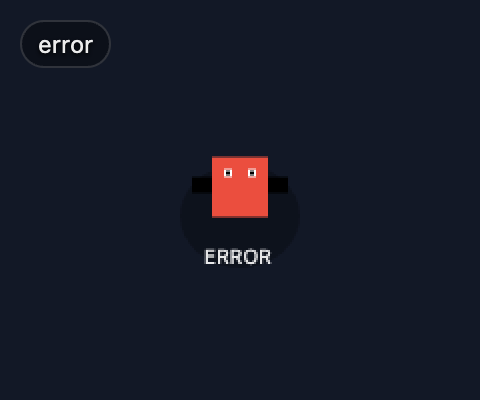
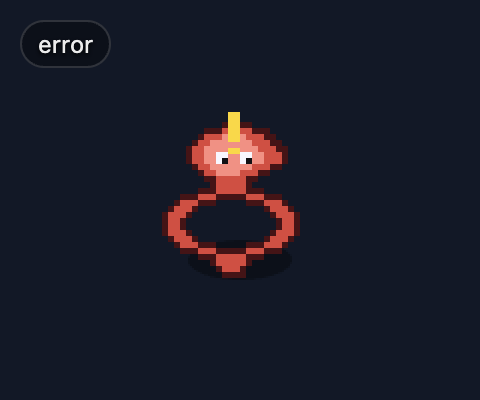
Mascot: replace placeholder drawing with real 32x32 pixel lobster sprites

Changed region(s): [[0.3125, 0.27, 0.625, 0.72]]

diff --git a/apps/molt-mascot/src/sprites.js b/apps/molt-mascot/src/sprites.js
@@ -1,0 +1,200 @@
+// Pixel art sprites for molt-mascot (32x32).
+// Legend: . transparent
+// k outline (dark)
+// r body red
+// h highlight
+// w white (eyes)
+// b black (pupil)
+// s shadow
+
+export const palette = {
+  '.': null,
+  k: '#4a0f14',
+  r: '#e0433a',
+  h: '#ff8b7f',
+  w: '#f8f7ff',
+  b: '#101014',
+  s: 'rgba(0,0,0,0.35)',
+  g: '#34c759',
+  u: '#0a84ff',
+  y: '#ffd60a',
+};
+
+// Base lobster. Designed for a 32x32 canvas; scale it up with nearest-neighbor.
+// Two idle frames (claws slightly open/closed).
+export const lobsterIdle = [
+  [
+    '................................',
+    '................................',
+    '................................',
+    '.............kkkkk..............',
+    '..........kkkrrrrrkkk...........',
+    '.........krrrhhhhrrrkk..........',
+    '........krrhhhhhhhrrrkk.........',
+    '.......krrhhhhhhhhhrrrkk........',
+    '.......krrhhwwhhwwhhrrrk........',
+    '.......krrhhwbhhwbhhrrrk........',
+    '........krrhhhhhhhrrrkk.........',
+    '.........krrhhhhrrrkk...........',
+    '..........kkrrrrrkk.............',
+    '...........krrrrrk..............',
+    '.........kkkrrrrrkkk............',
+    '......kkkrrrkkkkkrrrkkk.........',
+    '.....krrrkkk.....kkkrrrk........',
+    '....krrrk...........krrrk.......',
+    '...krrrk.............krrrk......',
+    '...krrk...............krrk......',
+    '...krrk...............krrk......',
+    '...krrrk.............krrrk......',
+    '....krrrk...........krrrk.......',
+    '.....krrrkkk.....kkkrrrk........',
+    '......kkkrrrkkkkkrrrkkk.........',
+    '.........kkkrrrrrkkk............',
+    '...........krrrrrk..............',
+    '............krrrk...............',
+    '.............kkkk...............',
+    '................................',
+    '................................',
+    '................................',
+  ],
+  [
+    '................................',
+    '................................',
+    '................................',
+    '.............kkkkk..............',
+    '..........kkkrrrrrkkk...........',
+    '.........krrrhhhhrrrkk..........',
+    '........krrhhhhhhhrrrkk.........',
+    '.......krrhhhhhhhhhrrrkk........',
+    '.......krrhhwwhhwwhhrrrk........',
+    '.......krrhhwbhhwbhhrrrk........',
+    '........krrhhhhhhhrrrkk.........',
+    '.........krrhhhhrrrkk...........',
+    '..........kkrrrrrkk.............',
+    '...........krrrrrk..............',
+    '.........kkkrrrrrkkk............',
+    '......kkkrrrkkkkkrrrkkk.........',
+    '.....krrrkkk.....kkkrrrk........',
+    '....krrrk...........krrrk.......',
+    '...krrrk.............krrrk......',
+    '...krrk...............krrk......',
+    '...krrk...............krrk......',
+    '...krrrk.............krrrk......',
+    '....krrrk...........krrrk.......',
+    '.....krrrkkk.....kkkrrrk........',
+    '......kkkrrrkkkkkrrrkkk.........',
+    '.........kkkrrrrrkkk............',
+    '...........krrrrrk..............',
+    '............krrrk...............',
+    '.............kkkk...............',
+    '................................',
+    '................................',
+    '................................',
+  ],
+];
+
+// Simple overlays for different modes.
+export const overlay = {
+  thinking: [
+    '................................',
+    '................................',
+    '..............uu................',
+    '.............u..u...............',
+    '..............uu................',
+    '................................',
+    '..............uu................',
+    '.............u..u...............',
+    '..............uu................',
+    '................................',
+    '................................',
+    '................................',
+    '................................',
+    '................................',
+    '................................',
+    '................................',
+    '................................',
+    '................................',
+    '................................',
+    '................................',
+    '................................',
+    '................................',
+    '................................',
+    '................................',
+    '................................',
+    '................................',
+    '................................',
+    '................................',
+    '................................',
+    '................................',
+    '................................',
+    '................................',
+  ],
+  tool: [
+    '................................',
+    '................................',
+    '..............gg................',
+    '.............g..g...............',
+    '..............gg................',
+    '................................',
+    '...........gggggggg.............',
+    '..........g..gggg..g............',
+    '..........g..g..g..g............',
+    '...........gg....gg.............',
+    '................................',
+    '................................',
+    '................................',
+    '................................',
+    '................................',
+    '................................',
+    '................................',
+    '................................',
+    '................................',
+    '................................',
+    '................................',
+    '................................',
+    '................................',
+    '................................',
+    '................................',
+    '................................',
+    '................................',
+    '................................',
+    '................................',
+    '................................',
+    '................................',
+    '................................',
+  ],
+  error: [
+    '................................',
+    '................................',
+    '..............yy................',
+    '..............yy................',
+    '..............yy................',
+    '..............yy................',
+    '..............yy................',
+    '................................',
+    '..............yy................',
+    '................................',
+    '................................',
+    '................................',
+    '................................',
+    '................................',
+    '................................',
+    '................................',
+    '................................',
+    '................................',
+    '................................',
+    '................................',
+    '................................',
+    '................................',
+    '................................',
+    '................................',
+    '................................',
+    '................................',
+    '................................',
+ '................................',
+    '................................',
+    '................................',
+    '................................',
+    '................................',
+  ],
+};

diff --git a/apps/molt-mascot/src/renderer.js b/apps/molt-mascot/src/renderer.js
@@ -30,39 +30,40 @@ function showSetup(prefill) {
   tokenInput.value = prefill?.token || '';
 }
 
-// --- Pixel "lobster" placeholders (swap for real sprites later) ---
+import { palette, lobsterIdle, overlay } from './sprites.js';
+
+function drawSprite(sprite, { x = 0, y = 0, scale = 3 } = {}) {
+  for (let py = 0; py < sprite.length; py += 1) {
+    const row = sprite[py];
+    for (let px = 0; px < row.length; px += 1) {
+      const ch = row[px];
+      const color = palette[ch];
+      if (!color) continue;
+      ctx.fillStyle = color;
+      ctx.fillRect(x + px * scale, y + py * scale, scale, scale);
+    }
+  }
+}
+
 function drawLobster(mode, t) {
   ctx.clearRect(0, 0, canvas.width, canvas.height);
 
-  // background glow
-  ctx.fillStyle = 'rgba(0,0,0,0.25)';
+  // subtle shadow (keeps it readable on transparent backgrounds)
+  ctx.fillStyle = palette.s;
   ctx.beginPath();
-  ctx.ellipse(48, 56, 30, 26, 0, 0, Math.PI * 2);
+  ctx.ellipse(48, 78, 26, 10, 0, 0, Math.PI * 2);
   ctx.fill();
 
-  // body
-  const bob = Math.sin(t / 250) * 1.5;
-  ctx.fillStyle = mode === 'error' ? '#ff3b30' : (mode === 'tool' ? '#34c759' : (mode === 'thinking' ? '#0a84ff' : '#ff9f0a'));
-  ctx.fillRect(34, 28 + bob, 28, 30);
+  const frame = Math.floor(t / 260) % 2;
+  const bob = Math.sin(t / 260) * 2;
 
-  // eyes
-  ctx.fillStyle = 'white';
-  ctx.fillRect(40, 34 + bob, 4, 4);
-  ctx.fillRect(52, 34 + bob, 4, 4);
-  ctx.fillStyle = 'black';
-  ctx.fillRect(41, 35 + bob, 2, 2);
-  ctx.fillRect(53, 35 + bob, 2, 2);
+  // main sprite
+  drawSprite(lobsterIdle[frame], { x: 0, y: Math.round(bob), scale: 3 });
 
-  // claws
-  const claw = Math.sin(t / 120) * (mode === 'thinking' ? 2 : 1);
-  ctx.fillStyle = ctx.fillStyle;
-  ctx.fillRect(24 + claw, 38 + bob, 10, 8);
-  ctx.fillRect(62 - claw, 38 + bob, 10, 8);
-
-  // label
-  ctx.fillStyle = 'rgba(255,255,255,0.9)';
-  ctx.font = '10px ui-sans-serif, system-ui';
-  ctx.fillText(mode.toUpperCase(), 30, 80);
+  // overlays (simple icons)
+  if (mode === 'thinking') drawSprite(overlay.thinking, { x: 0, y: -2, scale: 3 });
+  if (mode === 'tool') drawSprite(overlay.tool, { x: 0, y: -2, scale: 3 });
+  if (mode === 'error') drawSprite(overlay.error, { x: 0, y: -2, scale: 3 });
 }
 
 // --- State machine ---
